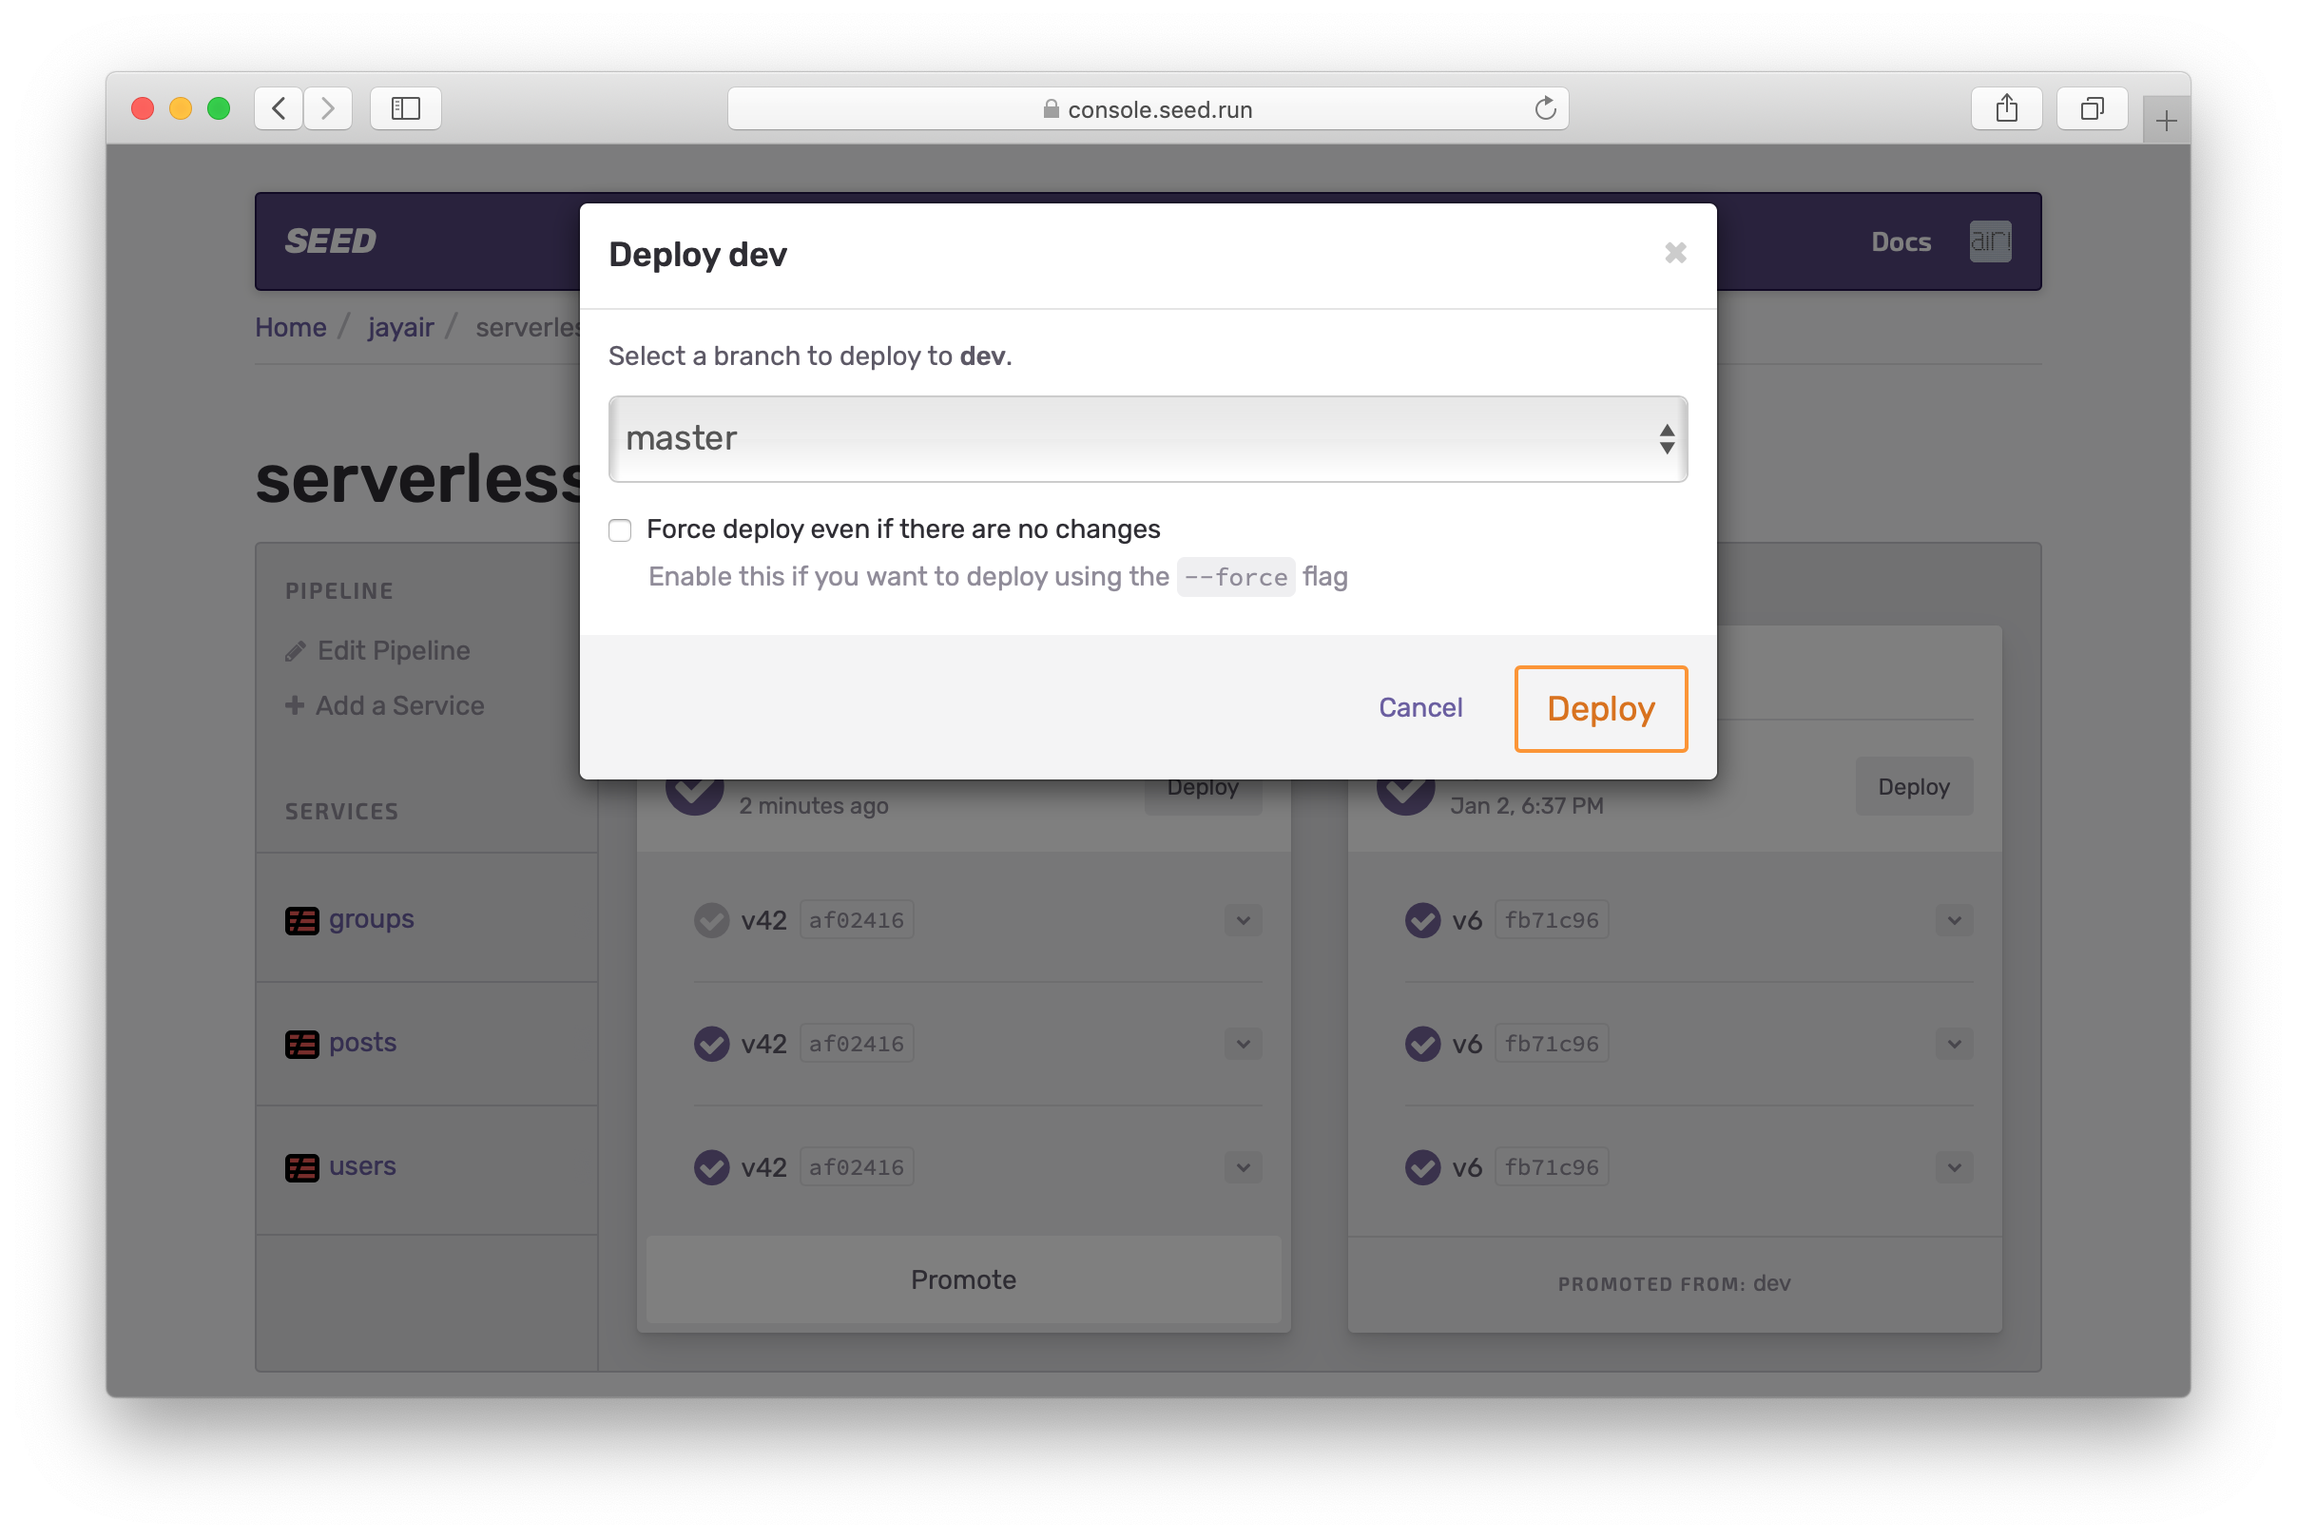
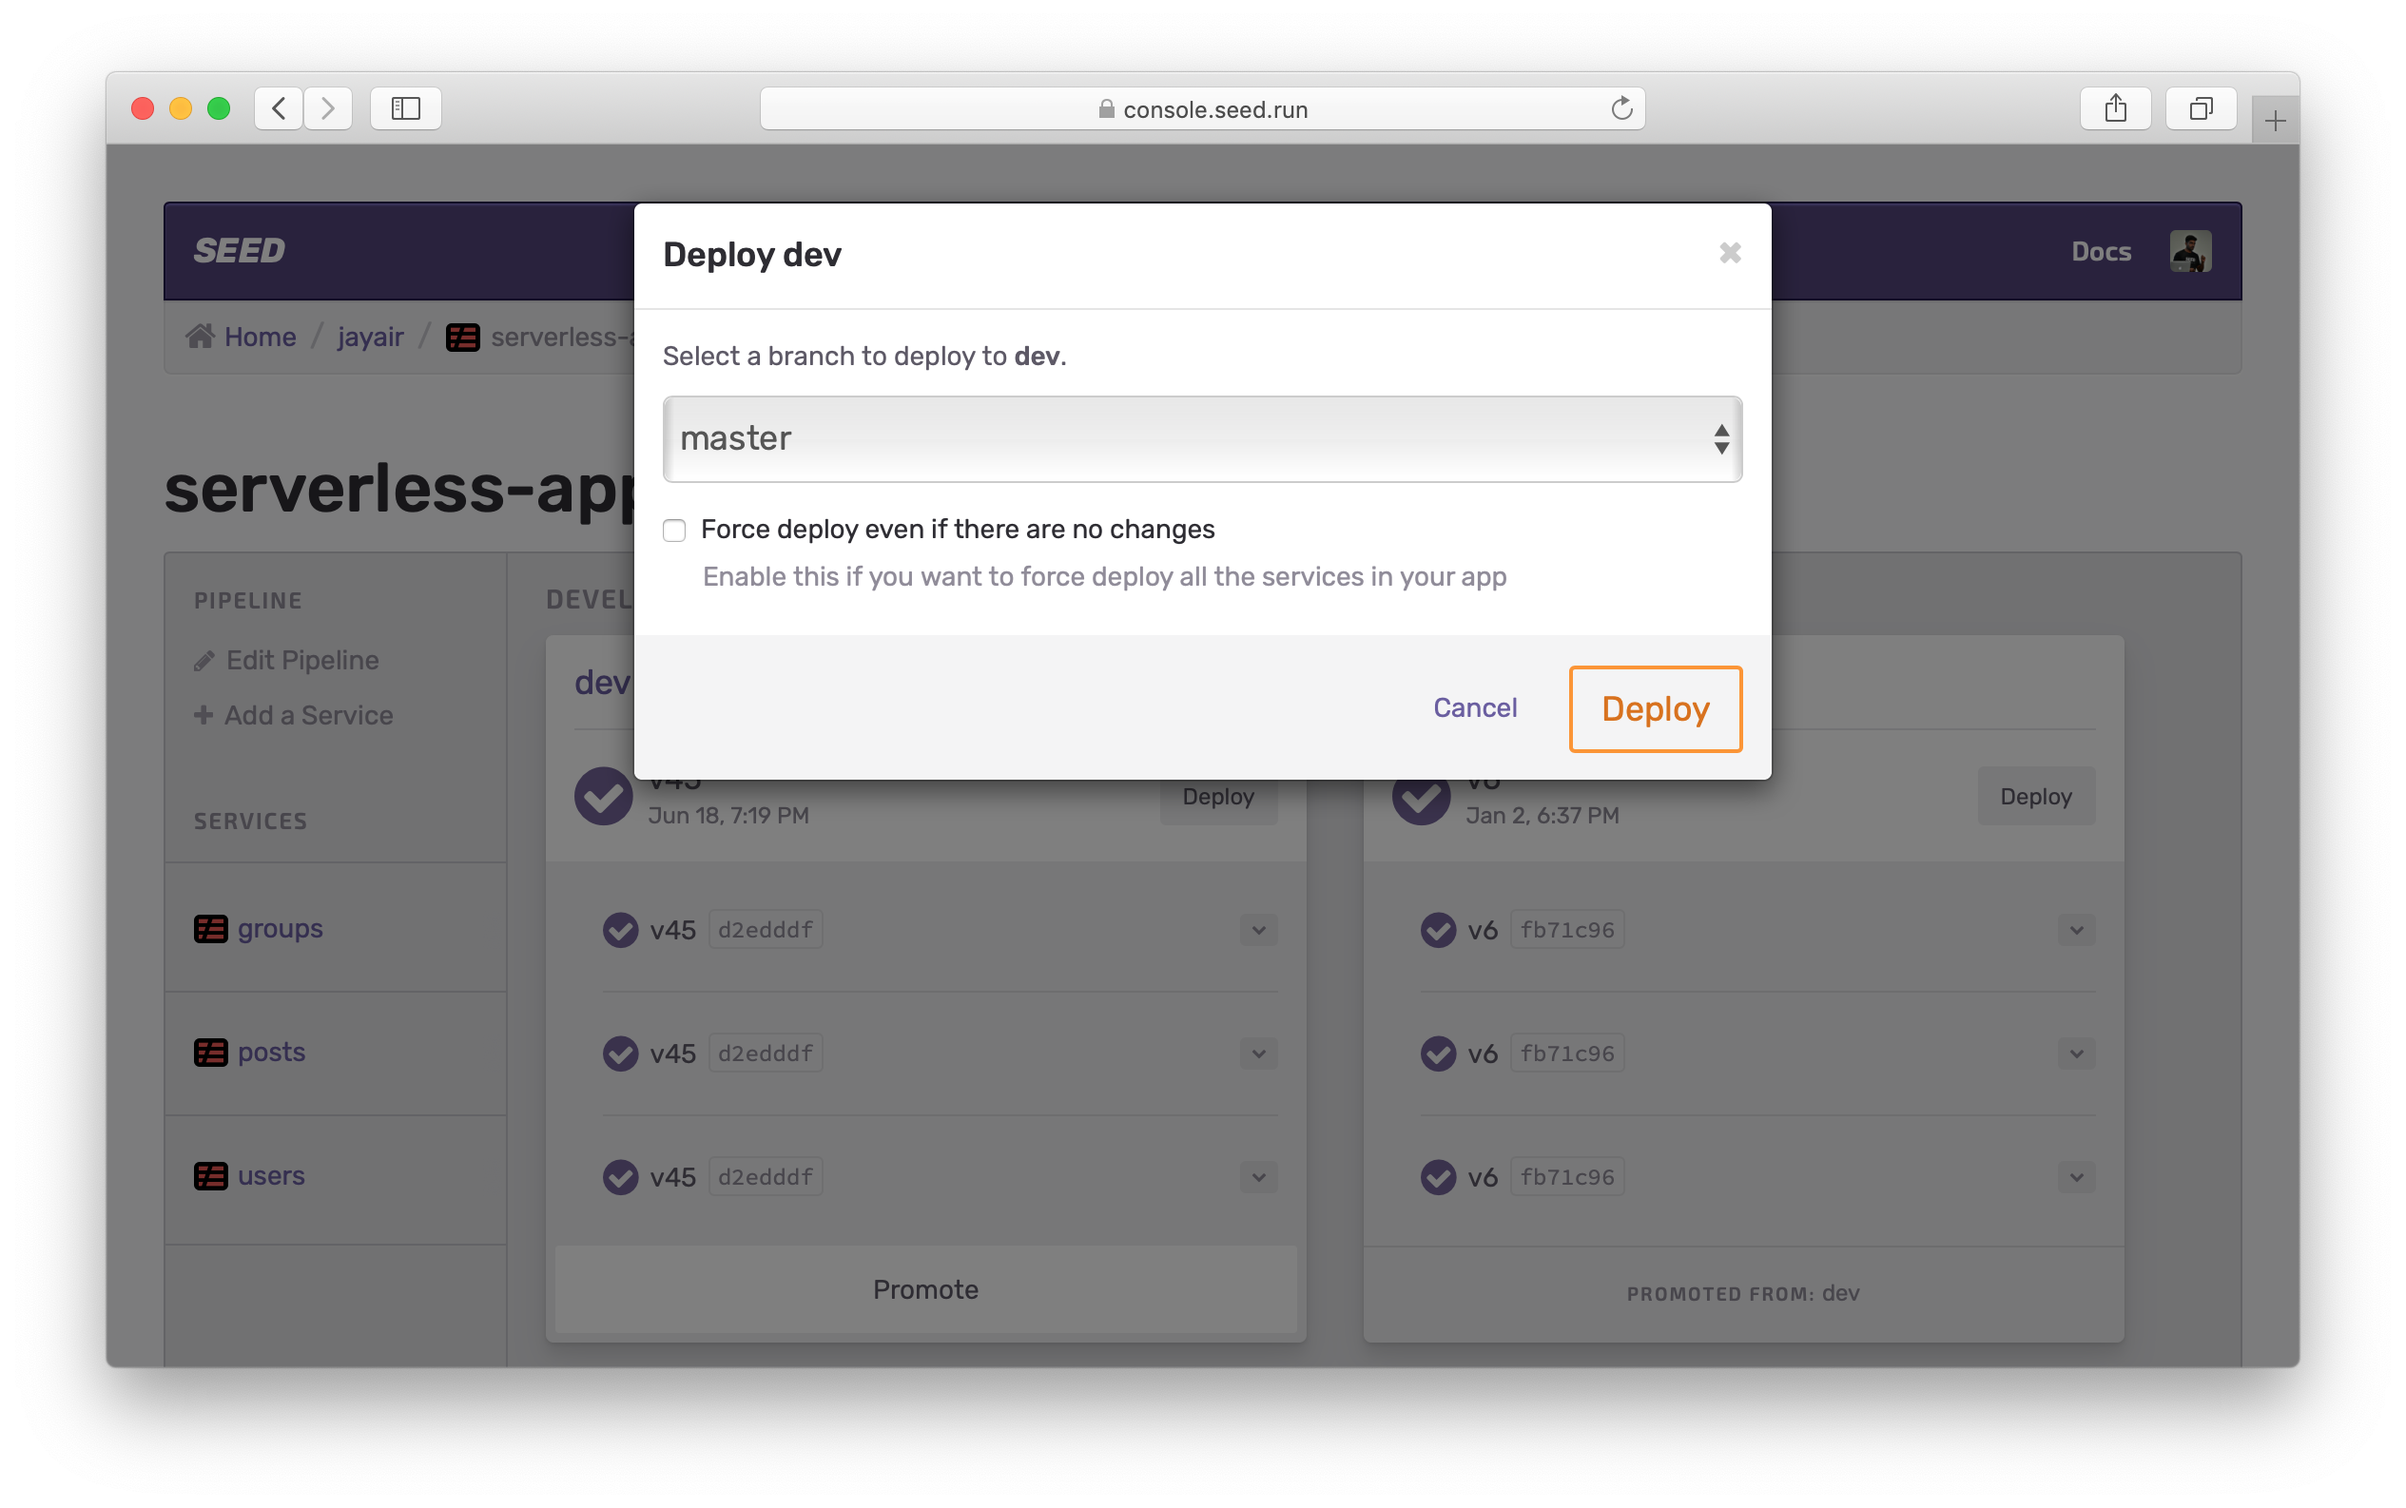
Skip Deployments - Update doc on force option for manual deploy - Add screenshots to docs

diff --git a/_docs/manually-deploying.md b/_docs/manually-deploying.md
@@ -7,39 +7,30 @@ You can trigger one-off deployments to any stage or service in Seed. This can be
 
 ### Manually Deploy a Stage
 
-To manually deploy a stage, head over to the app pipeline.
+To manually deploy a stage, head over to the app pipeline. And hit **Deploy** on the stage you want to manually deploy.
 
 ![Select stage](/assets/docs/manually-deploying/select-stage.png)
 
-And hit **Deploy** on the stage you want to manually deploy.
+Here you'll be prompted to select a branch you want to deploy with. Or if this stage has a branch connected to it, you'll be asked if you want to deploy using it.
 
 ![Hit stage trigger deploy](/assets/docs/manually-deploying/hit-stage-deploy.png)
 
-Here you'll be prompted to select a branch you want to deploy with. Or if this stage has a branch connected to it, you'll be asked if you want to deploy using it.
-
-![Trigger deploy select branch](/assets/docs/manually-deploying/trigger-deploy-select-branch.png)
-
-You can optionally force a deploy using the [Serverless Framework](https://serverless.com) `--force` flag. By default, Serverless Framework only deploys the services that have been updated. The `--force` option overrides this and deploys even if there are no changes.
-
-![Force deploy option](/assets/docs/manually-deploying/force-deploy-option.png)
+You can optionally force a deploy, more on this below.
 
 ### Manually Deploy a Service
 
-To deploy a specific service, click the dropdown for the service in the stage you want to deploy.
+To deploy a specific service, click the dropdown for the service in the stage you want to deploy. Hit **Deploy Service**.
 
 ![Select service dropdown](/assets/docs/manually-deploying/select-service-down.png)
 
-Hit **Deploy Service**.
+Just as above, you'll be asked to select a branch.
 
 ![Hit service trigger deploy](/assets/docs/manually-deploying/hit-service-trigger-deploy.png)
 
-Just as above, you'll be asked to select a branch.
-
-
 ### Force Deploys
 
-By default, Serverless Framework only deploys the services that have changed. It does this by comparing the code package and the CloudFormation template. However, there might be cases where you want to override this behavior. You can do this by selecting the **Force deploy** option from the manual deploy dialog.
+By default, Seed will only deploy the services that have been updated. You can read more about [how Seed figures out which services need to be deployed here]({% link _docs/deploying-monorepo-apps.md %}). To skip this check and deploy all your services, select the **Force deploy** option.
 
 ![Select force option](/assets/docs/manually-deploying/select-force-option.png)
 
-This option tells Seed to deploy using the Serverless Framework `--force` flag and deploy even if there are no changes.
+This option tells Seed to deploy all your services even if there are no changes that've been detected.

diff --git a/_docs/deploying-monorepo-apps.md b/_docs/deploying-monorepo-apps.md
@@ -97,7 +97,11 @@ Seed uses a simple algorithm to determine if a service in your app needs to be d
 
    So to summarize, it's the same as the one above, with the added caveat that Seed will deploy a service if the files changed belong to a service in a parent directory.
 
-Seed will apply the above algorithm for each service in your app to decide if it needs to trigger a deployment process. Finally, Seed will skip the above check and deploy all your services if:
+Seed will apply the above algorithm for each service in your app to decide if it needs to trigger a deployment process. A service with a skipped deployment step will look something like this:
+
+![Skipped service with no code changes](/assets/docs/deploying-monorepo-apps/skipped-service-with-no-code-changes.png)
+
+Finally, Seed will skip the above check and deploy all your services if:
 
 - This is the first deployment
 - The previous deployment had failed
